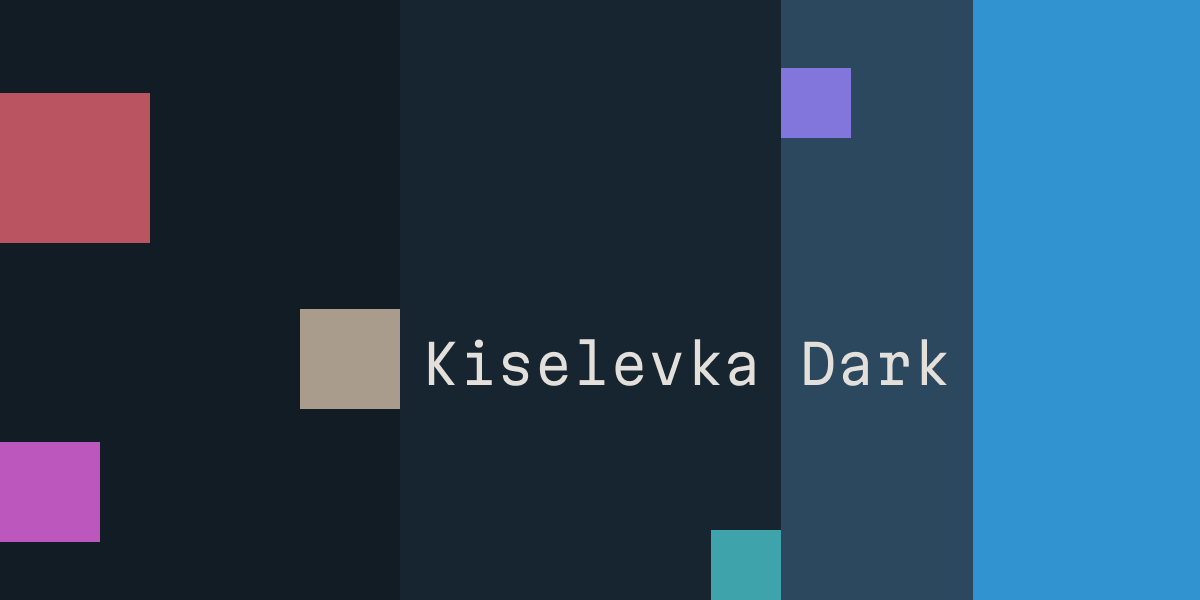
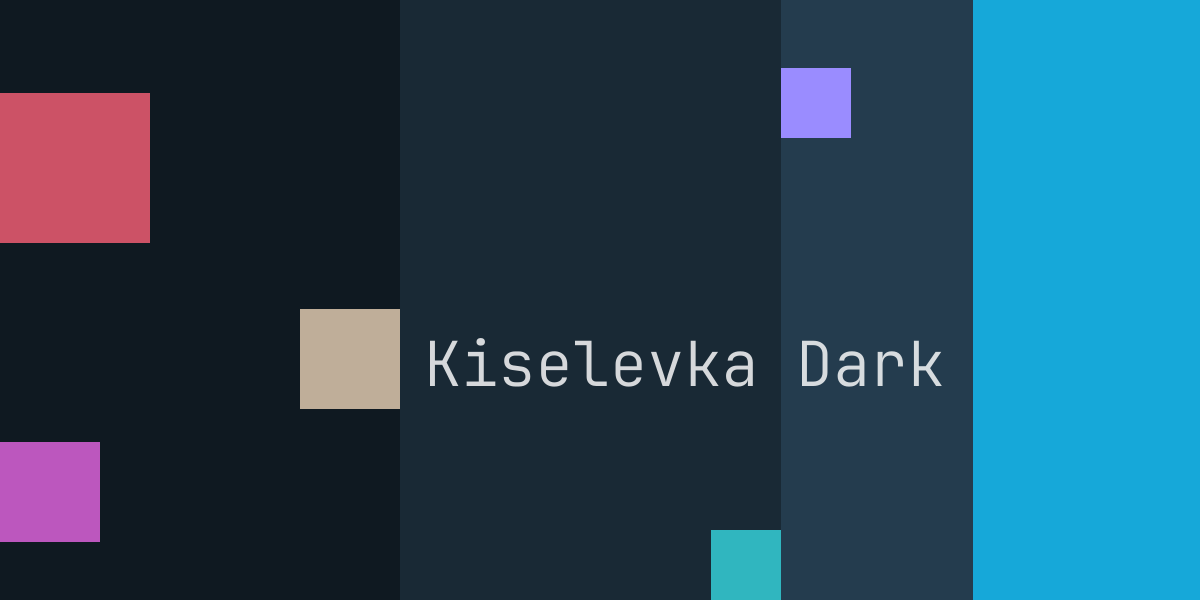
Release 0.1.0: higher-contrast palette and current Zed theme keys
- Switch to the higher-contrast palette (deeper backgrounds, brighter syntax)
- Add all theme keys introduced in Zed since 0.0.3: version control and
  diff hunks, search/selection, indent guides, accents, panels, scrollbar
  and minimap, debugger, Vim/Helix modes, terminal ANSI background
- Fix invalid player color and deprecated scrollbar_thumb.background key
- Bump theme schema to v0.2.0
- Italic/bold for markdown emphasis, italic doc comments
- Regenerate preview (with SVG source) and screenshot

Changed region(s): [[0.3392, 0.0, 1.0, 1.0], [0.6475, 0.09, 0.7092, 0.24]]

diff --git a/README.md b/README.md
@@ -4,7 +4,9 @@
 
 Kiselevka dark color theme for [the Zed code editor](https://zed.dev/)
 
-The low-contrast cozy design theme for evening coding ;-)
+The cozy dark theme for evening coding ;-)
+
+Since v0.1.0 the theme is a bit more contrast: deeper backgrounds and brighter syntax colors.
 
 Inspired by [Noctis](https://github.com/liviuschera/noctis#noctis-minimus), [Solarized](https://github.com/altercation/solarized) and others.
 
